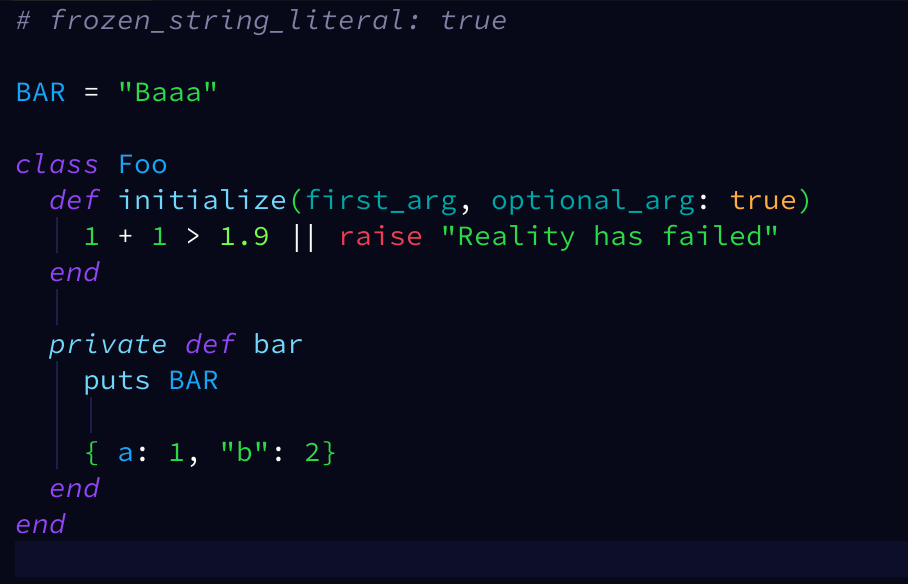
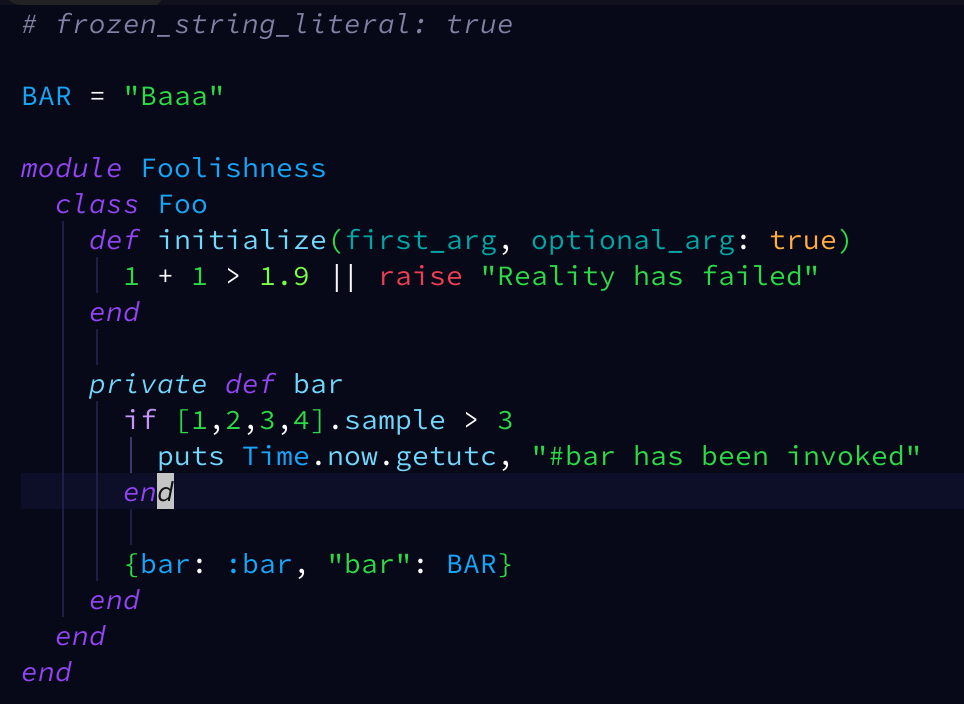
Add test code

diff --git a/tests/foo.js b/tests/foo.js
@@ -1,0 +1,20 @@
+window.BAR = "Baaa"
+
+const initialize = (first_arg, optional_arg=true) => {
+				if(1 + 1 > 1.9){
+								return // All is well
+				}else{
+								throw "Reality has failed";
+				}
+}
+
+const function bar = () => {
+				const values = [1,2,3,4];
+				let random = Math.floor(Math.random() * values.length);
+
+				if(random > 3) {
+								console.log(`${Date.now()}: #bar has been invoked"`);
+				}
+
+				return { bar: "bar" }
+}

diff --git a/tests/foo.rb b/tests/foo.rb
@@ -1,0 +1,19 @@
+# frozen_string_literal: true
+
+BAR = "Baaa"
+
+module Foolishness
+  class Foo
+    def initialize(first_arg, optional_arg: true)
+      1 + 1 > 1.9 || raise "Reality has failed"
+    end
+
+    private def bar
+      if [1,2,3,4].sample > 3
+        puts Time.now.getutc, "#bar has been invoked"
+      end
+
+      return {bar: :bar, "bar": BAR}
+    end
+  end
+end

diff --git a/README.md b/README.md
@@ -1,7 +1,7 @@
 Vim-AdCode
 ==========
 
-A colourful Vim/Nvim theme for bright developers.
+A colourful Vim/Nvim theme for **bright** developers who aren't afraid of some **colour**!
 
 ![Screenshot](docs/screenshot.png)
 
@@ -18,4 +18,4 @@ To make changes:
 
 1. Run `make dev` to begin watching for changes
 2. Edit `adCode.palette`
-3. Reload the colorscheme in Vim to try out your changes.
+3. Reload the colorscheme in Vim to try out your changes. Take a look in the `tests` directory for some code to check.
